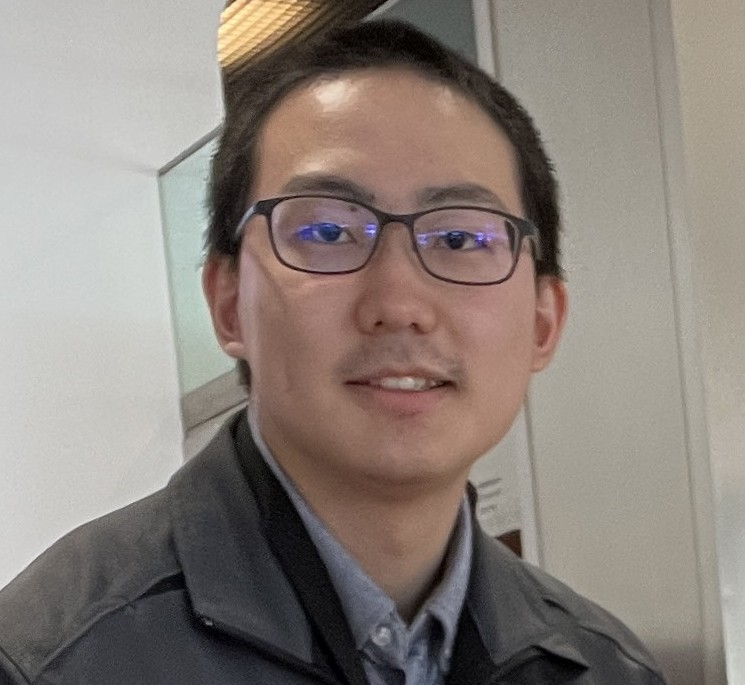
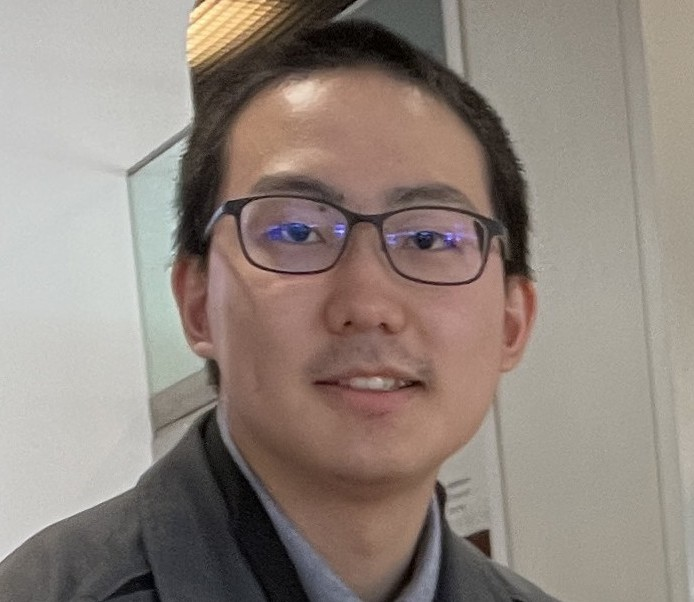
update by me

diff --git a/content/_index.ja.md b/content/_index.ja.md
@@ -9,7 +9,7 @@ sections:
   - block: resume-biography-3
     content:
       # Choose a user profile to display (a folder name within `content/authors/`)
-      username: me_ja
+      username: me
       text: ''
       # Show a call-to-action button under your biography? (optional)
       # button:

diff --git a/content/experience.ja.md b/content/experience.ja.md
@@ -7,7 +7,6 @@ design:
   spacing: '5rem'
 
 # Note: `username` refers to the user's folder name in `content/authors/`
-
 # Page sections
 sections:
   - block: resume-experience
@@ -31,3 +30,5 @@ sections:
       title: Languages
       username: me
 ---
+## Skills
+テストテスト
